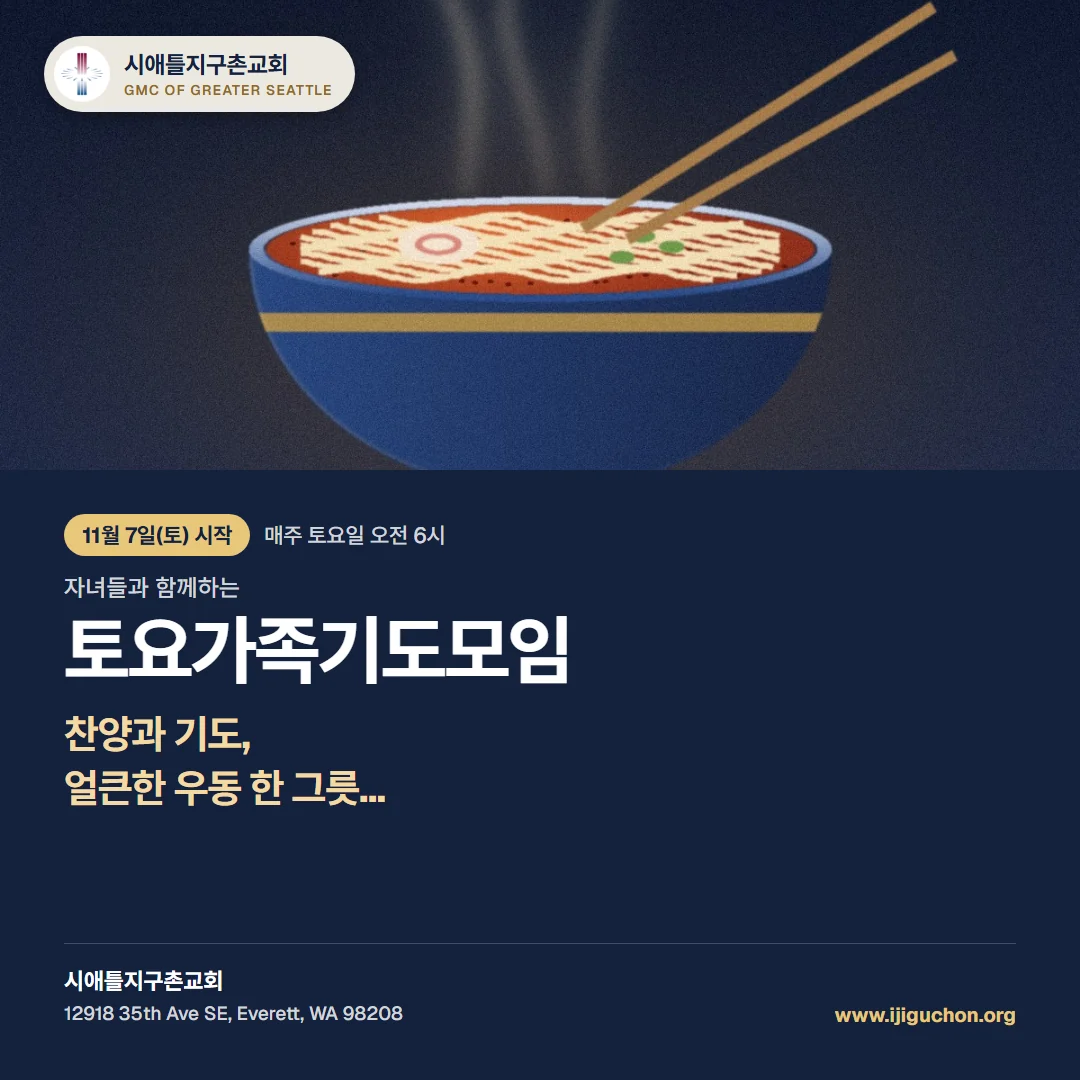
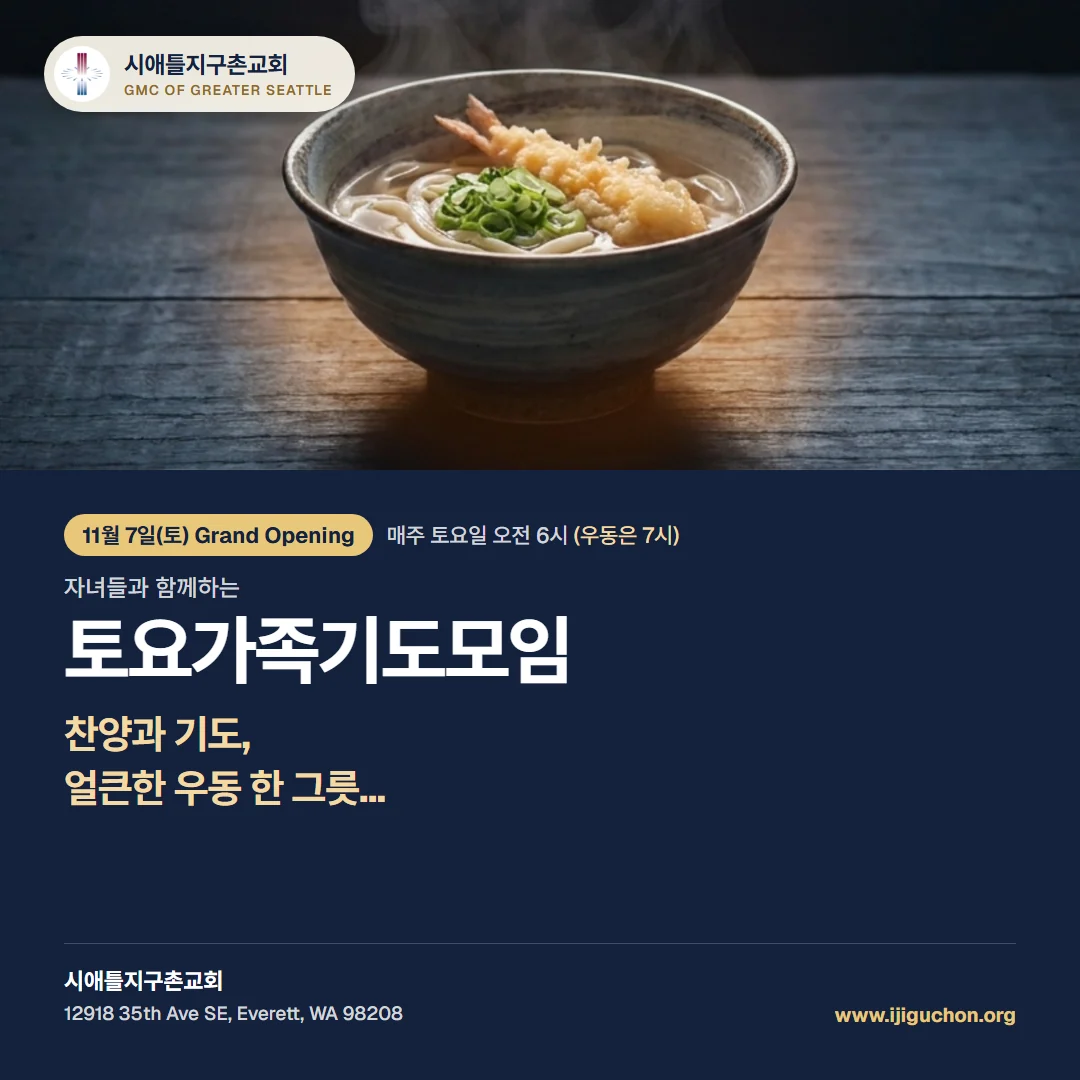
Saturday poster: udon photo from column, Grand Opening, udon at 7

diff --git a/index.html b/index.html
@@ -2866,7 +2866,7 @@ if(g&&after!==b) g.insertBefore(b,after);
 var qt=b.querySelector('.qt'); if(qt){var s=document.createElement('span');s.className='sat-badge';s.innerHTML='<span class="ko">새 모임</span><span class="en">New</span>';qt.insertBefore(s,qt.firstChild);}
 var qb=b.querySelector('.qb')||b; var tg=document.createElement('span'); tg.className='sat-tag'; tg.innerHTML='<span class="ko">찬양과 기도, 얼큰한 우동 한 그릇...</span><span class="en">Worship, prayer, and a hot bowl of udon</span>'; qb.appendChild(tg);
 })();</script>
-<style id="pp-css">#ppBox{position:fixed;inset:0;z-index:2147482000;display:flex;align-items:center;justify-content:center;padding:16px;background:rgba(11,20,40,.72)}#ppBox .pp-card{position:relative;width:min(440px,100%);max-height:calc(100vh - 32px);overflow:auto;background:var(--color-surface);border-radius:18px;box-shadow:0 20px 50px rgba(0,0,0,.35)}#ppBox .pp-card img{display:block;width:100%;height:auto}#ppBox .pp-acts{display:flex;gap:8px;padding:12px}#ppBox .pp-acts a,#ppBox .pp-acts button{flex:1;min-height:48px;border-radius:12px;font:700 16px system-ui,sans-serif;cursor:pointer;display:inline-flex;align-items:center;justify-content:center;text-decoration:none}#ppBox .pp-go{background:var(--color-primary);color:var(--color-text-inverse);border:0}#ppBox .pp-x{background:var(--color-surface);color:var(--color-primary);border:1.5px solid var(--color-primary)}#ppBox a:focus-visible,#ppBox button:focus-visible{outline:3px solid #2c77b0;outline-offset:2px}</style>
+<script id="gmc-cal-sheet">(function(){var ID="1ZhTnlt_pjGUcSk8mpP2aXpMdw3_jurNNbZVAyVkWm28";if(!ID||typeof renderSchedule!=="function")return;function csv(t){var r=[],row=[],f="",q=false;for(var i=0;i<t.length;i++){var c=t[i];if(q){if(c=='"'){if(t[i+1]=='"'){f+=c;i++;}else q=false;}else f+=c;}else if(c=='"')q=true;else if(c==","){row.push(f);f="";}else if(c=="\n"){row.push(f);r.push(row);row=[];f="";}else if(c!="\r")f+=c;}if(f||row.length){row.push(f);r.push(row);}return r;}fetch("https://docs.google.com/spreadsheets/d/"+ID+"/gviz/tq?tqx=out:csv").then(function(x){return x.ok?x.text():"";}).then(function(t){if(!t)return;function nd(v){v=(v||"").trim();var m=v.match(/^(\d{4})\D+(\d{1,2})\D+(\d{1,2})/);if(!m){m=v.match(/^(\d{1,2})\/(\d{1,2})\/(\d{4})/);if(m)m=[0,m[3],m[1],m[2]];}if(!m)return "";return m[1]+"-"+("0"+m[2]).slice(-2)+"-"+("0"+m[3]).slice(-2);}var rows=csv(t).slice(1),sp=[],pl=[];rows.forEach(function(c){var d=nd(c[0]);if(!d||!(c[1]||"").trim())return;if((c[5]||"").indexOf("예고")>-1)pl.push({d:d,ko:c[1],en:c[2]||c[1]});else sp.push({d:d,t:c[1],tEn:c[2]||c[1],m:c[3]||"",mEn:c[4]||c[3]||""});});if(sp.length)SPECIAL_EVENTS=sp;if(pl.length)UPCOMING_PLAN=pl;renderSchedule();}).catch(function(){});})();</script><style id="pp-css">#ppBox{position:fixed;inset:0;z-index:2147482000;display:flex;align-items:center;justify-content:center;padding:16px;background:rgba(11,20,40,.72)}#ppBox .pp-card{position:relative;width:min(440px,100%);max-height:calc(100vh - 32px);overflow:auto;background:#fff;border-radius:18px;box-shadow:0 20px 50px rgba(0,0,0,.35)}#ppBox .pp-card img{display:block;width:100%;height:auto}#ppBox .pp-acts{display:flex;gap:8px;padding:12px}#ppBox .pp-acts a,#ppBox .pp-acts button{flex:1;min-height:48px;border-radius:12px;font:700 16px system-ui,sans-serif;cursor:pointer;display:inline-flex;align-items:center;justify-content:center;text-decoration:none}#ppBox .pp-go{background:#14213d;color:#fff;border:0}#ppBox .pp-x{background:#fff;color:#14213d;border:1.5px solid #14213d}#ppBox a:focus-visible,#ppBox button:focus-visible{outline:3px solid #2c77b0;outline-offset:2px}</style>
 <script id="pp-js">(function(){
 /* 첫 화면 포스터 팝업 (2026-10-24) — 한 번만, 시애틀 날짜 2026-11-08 부터 안 뜸, ?pp=0 이면 안 뜸 */
 function day(){ try{ var p=new Intl.DateTimeFormat('en-US',{timeZone:'America/Los_Angeles',year:'numeric',month:'2-digit',day:'2-digit'}).formatToParts(new Date()),o={}; p.forEach(function(x){o[x.type]=x.value;}); return o.year+'-'+o.month+'-'+o.day; }catch(e){ return new Date(Date.now()-7*36e5).toISOString().slice(0,10); } }
@@ -2876,7 +2876,7 @@ if(/[?&](tab|open)=/.test(location.search)) return;  /* 다른 탭이나 창을 
 setTimeout(function(){
  var en=document.body.classList.contains('lang-en');
  var box=document.createElement('div'); box.id='ppBox'; box.setAttribute('role','dialog'); box.setAttribute('aria-modal','true'); box.setAttribute('aria-label',en?'Notice':'알림');
- box.innerHTML='<div class="pp-card"><img src="/images/notice/poster-20261107.webp" srcset="/images/notice/poster-20261107-720.webp 720w, /images/notice/poster-20261107.webp 1080w" sizes="(max-width:600px) 92vw, 520px" width="1080" height="1440" decoding="async" alt="새 예배 처소 안내 포스터: 10월 11일 주일부터 새 예배 처소에서 주일연합예배(매주 주일 오후 1시 30분). 자녀들과 함께하는 토요가족기도모임, 11월 7일(토) 시작, 매주 토요일 오전 6시, 찬양과 기도, 얼큰한 우동 한 그릇. 시애틀지구촌교회 · 12918 35th Ave SE, Everett, WA 98208"><div class="pp-acts"><a class="pp-go" href="/welcome/">'+(en?'Plan your visit':'오시는 길 보기')+'</a><button type="button" class="pp-x">'+(en?'Close':'닫기')+'</button></div></div>';
+ box.innerHTML='<div class="pp-card"><img src="/images/notice/poster-20261107.webp" srcset="/images/notice/poster-20261107-720.webp 720w, /images/notice/poster-20261107.webp 1080w" sizes="(max-width:600px) 92vw, 520px" width="1080" height="1440" decoding="async" alt="새 예배 처소 안내 포스터: 10월 11일 주일부터 새 예배 처소에서 주일연합예배(매주 주일 오후 1시 30분). 자녀들과 함께하는 토요가족기도모임, 11월 7일(토) Grand Opening, 매주 토요일 오전 6시(우동은 7시), 찬양과 기도, 얼큰한 우동 한 그릇. 시애틀지구촌교회 · 12918 35th Ave SE, Everett, WA 98208"><div class="pp-acts"><a class="pp-go" href="/welcome/">'+(en?'Plan your visit':'오시는 길 보기')+'</a><button type="button" class="pp-x">'+(en?'Close':'닫기')+'</button></div></div>';
  var html=document.documentElement, ov=html.style.overflow, pushed=false, done=false;
  function close(){ if(done) return; done=true; box.remove(); html.style.overflow=ov; document.removeEventListener('keydown',key); window.removeEventListener('popstate',pop); try{localStorage.setItem(K,'1');}catch(e){} }
  function key(e){ if(e.key==='Escape') shut(); } function pop(){ pushed=false; close(); }
@@ -2888,7 +2888,7 @@ setTimeout(function(){
  var b=box.querySelector('.pp-x'); if(b) b.focus();
 },1200);
 })();</script>
-<script id="gmc-cal-sheet">(function(){var ID="1ZhTnlt_pjGUcSk8mpP2aXpMdw3_jurNNbZVAyVkWm28";if(!ID||typeof renderSchedule!=="function")return;function csv(t){var r=[],row=[],f="",q=false;for(var i=0;i<t.length;i++){var c=t[i];if(q){if(c=='"'){if(t[i+1]=='"'){f+=c;i++;}else q=false;}else f+=c;}else if(c=='"')q=true;else if(c==","){row.push(f);f="";}else if(c=="\n"){row.push(f);r.push(row);row=[];f="";}else if(c!="\r")f+=c;}if(f||row.length){row.push(f);r.push(row);}return r;}fetch("https://docs.google.com/spreadsheets/d/"+ID+"/gviz/tq?tqx=out:csv").then(function(x){return x.ok?x.text():"";}).then(function(t){if(!t)return;function nd(v){v=(v||"").trim();var m=v.match(/^(\d{4})\D+(\d{1,2})\D+(\d{1,2})/);if(!m){m=v.match(/^(\d{1,2})\/(\d{1,2})\/(\d{4})/);if(m)m=[0,m[3],m[1],m[2]];}if(!m)return "";return m[1]+"-"+("0"+m[2]).slice(-2)+"-"+("0"+m[3]).slice(-2);}var rows=csv(t).slice(1),sp=[],pl=[];rows.forEach(function(c){var d=nd(c[0]);if(!d||!(c[1]||"").trim())return;if((c[5]||"").indexOf("예고")>-1)pl.push({d:d,ko:c[1],en:c[2]||c[1]});else sp.push({d:d,t:c[1],tEn:c[2]||c[1],m:c[3]||"",mEn:c[4]||c[3]||""});});if(sp.length)SPECIAL_EVENTS=sp;if(pl.length)UPCOMING_PLAN=pl;renderSchedule();}).catch(function(){});})();</script><script id="gmc-autoupdate">(function(){
+<script id="gmc-autoupdate">(function(){
 if(!('serviceWorker' in navigator)||!window.fetch)return;
 var V0=null,had=!!navigator.serviceWorker.controller,going=false;
 function busy(){var a=document.activeElement;if(a&&/^(INPUT|TEXTAREA|SELECT)$/.test(a.tagName)&&a.type!=='search')return true;

diff --git a/square/news/index.html b/square/news/index.html
@@ -805,7 +805,7 @@ if(a[0]!=='table'){im.srcset='/images/art/news-'+a[0]+'-900.webp 900w, /images/a
 if(c)c.innerHTML='<span class="ko">'+a[1]+'</span><span class="en">'+a[2]+'</span>';var fg=im.closest('.nh-art');if(fg)fg.setAttribute('data-art',a[0]);})();</script><!-- /nh-art -->
 <!-- np --><section class="np" id="newsPoster" aria-labelledby="npH">
 <h2 class="np-h" id="npH"><span class="ko">알림 · 새 예배 처소와 토요가족기도모임</span><span class="en">Notice · Our new place of worship and Saturday family prayer</span></h2>
-<a class="np-img" href="/images/notice/poster-20261107.webp" target="_blank" rel="noopener"><img src="/images/notice/poster-20261107.webp" srcset="/images/notice/poster-20261107-720.webp 720w, /images/notice/poster-20261107.webp 1080w" sizes="(max-width:600px) 92vw, 520px" width="1080" height="1440" decoding="async" alt="새 예배 처소 안내 포스터: 10월 11일 주일부터 새 예배 처소에서 주일연합예배(매주 주일 오후 1시 30분). 자녀들과 함께하는 토요가족기도모임, 11월 7일(토) 시작, 매주 토요일 오전 6시, 찬양과 기도, 얼큰한 우동 한 그릇. 시애틀지구촌교회 · 12918 35th Ave SE, Everett, WA 98208"></a>
+<a class="np-img" href="/images/notice/poster-20261107.webp" target="_blank" rel="noopener"><img src="/images/notice/poster-20261107.webp" srcset="/images/notice/poster-20261107-720.webp 720w, /images/notice/poster-20261107.webp 1080w" sizes="(max-width:600px) 92vw, 520px" width="1080" height="1440" decoding="async" alt="새 예배 처소 안내 포스터: 10월 11일 주일부터 새 예배 처소에서 주일연합예배(매주 주일 오후 1시 30분). 자녀들과 함께하는 토요가족기도모임, 11월 7일(토) Grand Opening, 매주 토요일 오전 6시(우동은 7시), 찬양과 기도, 얼큰한 우동 한 그릇. 시애틀지구촌교회 · 12918 35th Ave SE, Everett, WA 98208"></a>
 <p class="np-tip"><span class="ko">포스터를 길게 누르면 저장하거나 단톡방 · 스레드에 나눌 수 있습니다.</span><span class="en">Press and hold the poster to save or share it.</span></p>
 </section>
 <style id="np-css">.np{margin:0 0 28px;padding:20px;border:1px solid #E3D9C6;border-radius:20px;background:#fff;text-align:center}.np-h{margin:0 0 14px;font-size:18px;font-weight:800;color:#14213d;letter-spacing:-.01em}.np-img{display:block;max-width:520px;margin:0 auto;border-radius:14px;overflow:hidden;box-shadow:0 10px 26px rgba(20,33,61,.12)}.np-img img{display:block;width:100%;height:auto}.np-img:focus-visible{outline:3px solid #2c77b0;outline-offset:3px}.np-tip{margin:12px 0 0;font-size:14px;color:#4a4f5a}</style>

diff --git a/sw.js b/sw.js
@@ -7,7 +7,7 @@
    페이지는 network-first라 내용 수정 때 버전을 올릴 필요 없음.
    캐시 구조를 바꿀 때만 VERSION을 올리세요. (캐시 이름은 'home-' 으로 시작)
    ══════════════════════════════════════════════════════════ */
-const VERSION = 'home-v20261029-005349';
+const VERSION = 'home-v20261029-005609';
 const PAGE_CACHE = VERSION + '-pages';
 const ASSET_CACHE = VERSION + '-assets';
 const PRECACHE = ['/', '/manifest.json', '/favicon.ico', '/images/logo-mark.png', '/images/icon-192-em.png'];
